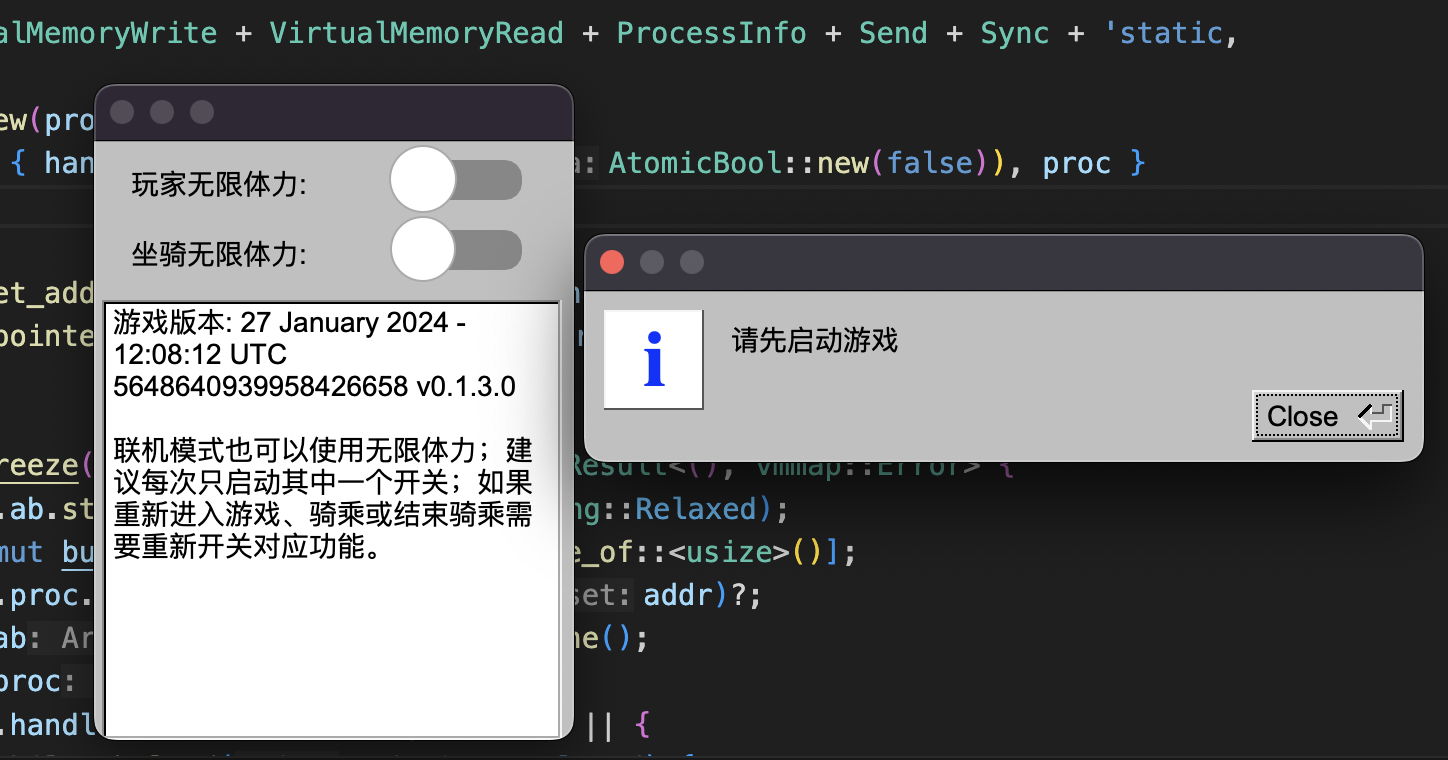
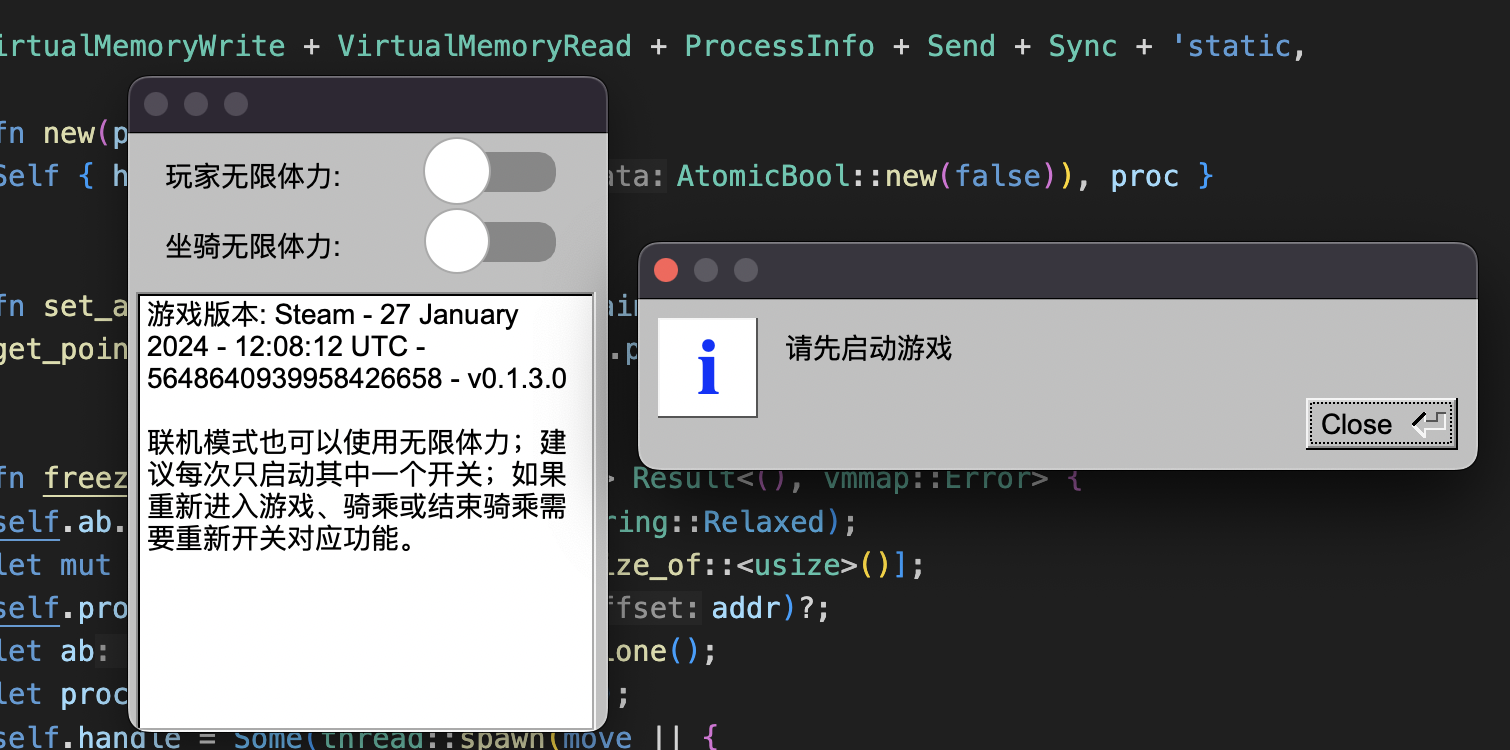
first commit

Changed region(s): [[0.0, 0.0307, 0.9945, 1.0]]

diff --git a/src/main.rs b/src/main.rs
@@ -146,7 +146,7 @@ fn main() {
 
     let mut buf = text::TextBuffer::default();
     buf.set_text(
-        "游戏版本: 27 January 2024 - 12:08:12 UTC 5648640939958426658 \
+        "游戏版本: Steam - 27 January 2024 - 12:08:12 UTC - 5648640939958426658 - \
          v0.1.3.0\n\n联机模式也可以使用无限体力；建议每次只启动其中一个开关；如果重新进入游戏、\
          骑乘或结束骑乘需要重新开关对应功能。",
     );
